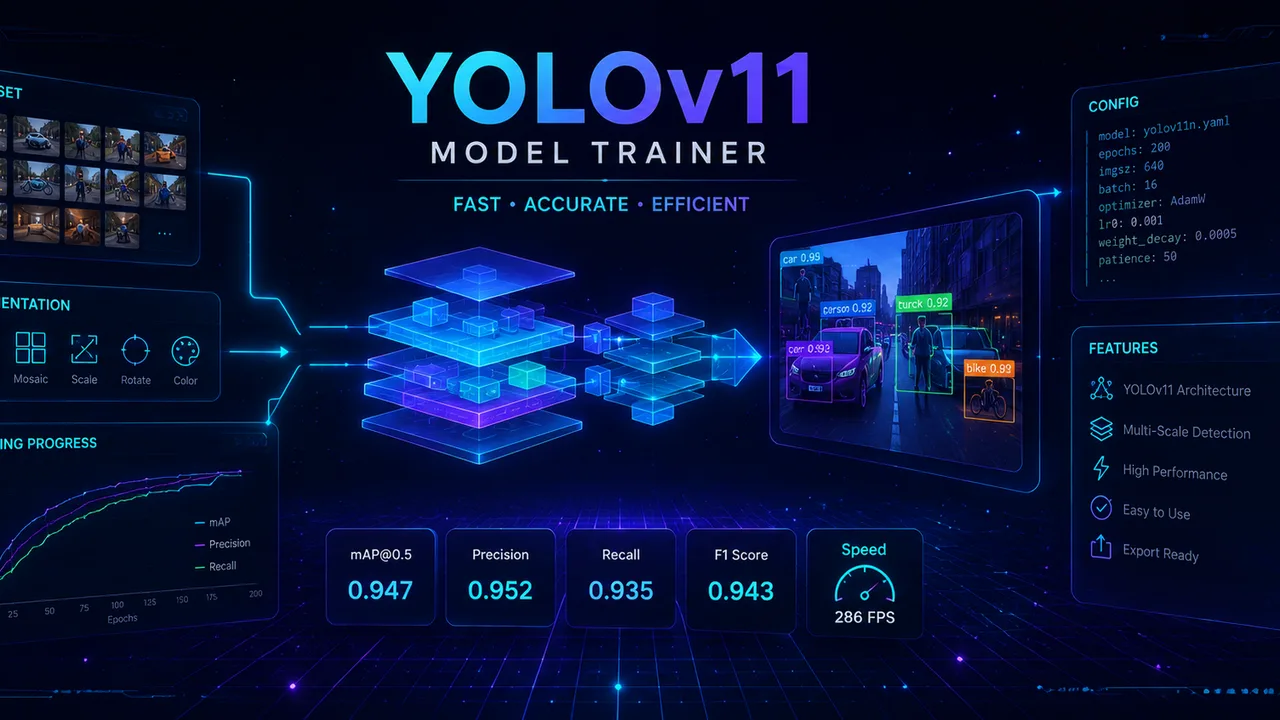
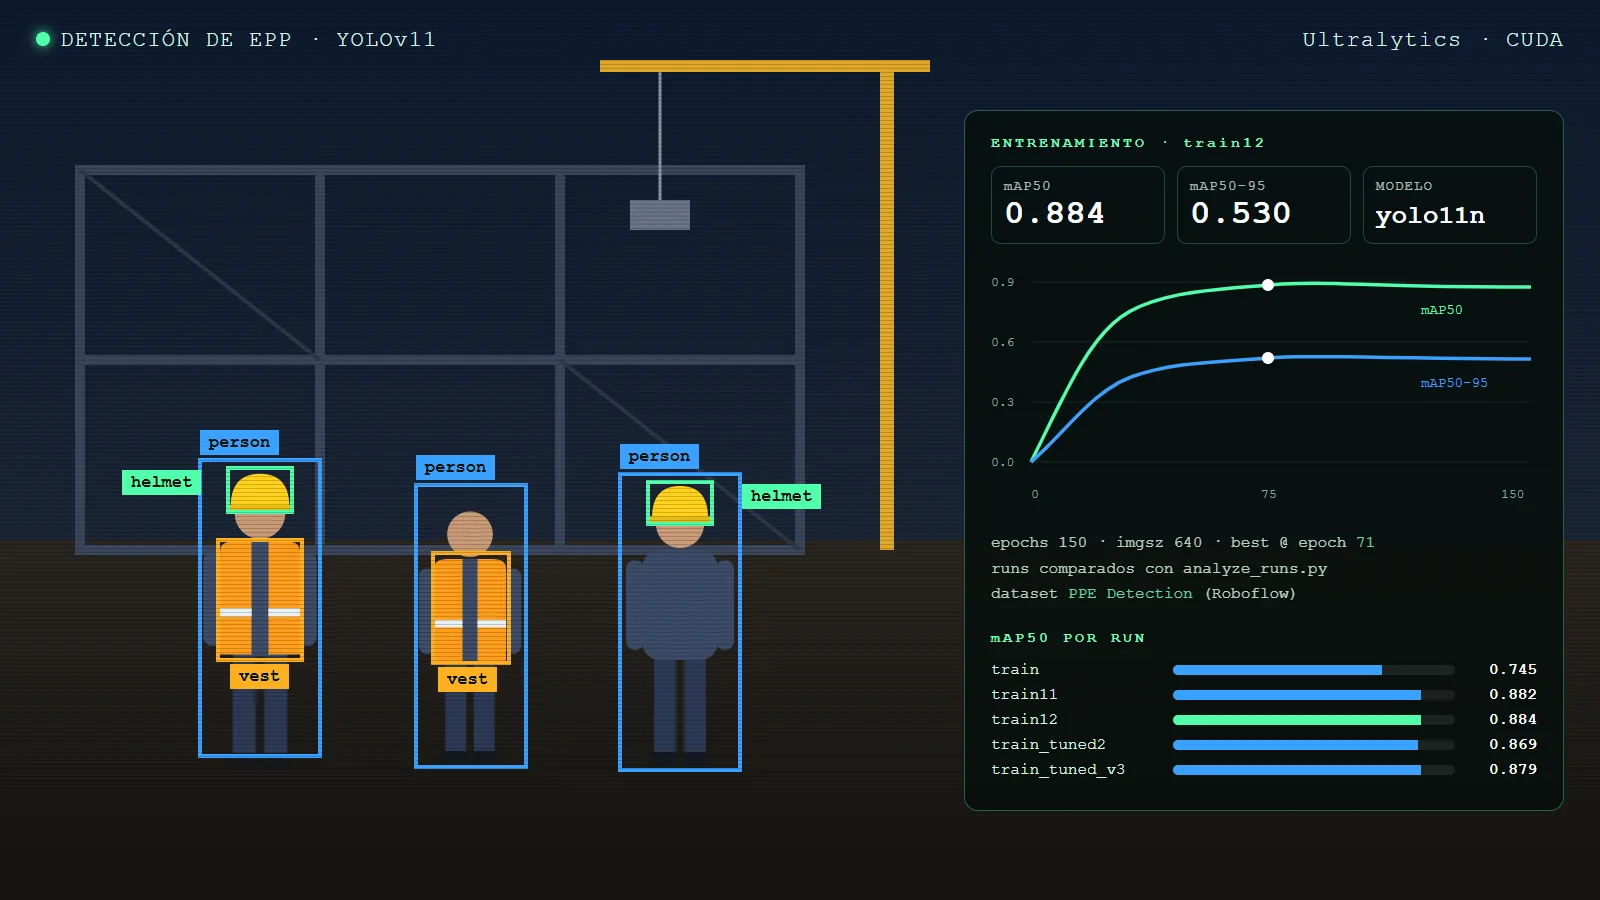
Renueva los proyectos personales
Imágenes propias para ANPR, el entrenador YOLOv11 y ReviewBot con el mismo estilo de vista de cámara; se quita la línea de resultado en los proyectos personales y se corrige la descripción y el stack de ReviewBot (Node.js, Discord.js, MongoDB).

diff --git a/src/content.js b/src/content.js
@@ -134,8 +134,7 @@ export const projects = [
       en: 'License plate recognition for vehicle entry and exit control.',
     },
     stack: ['Python', 'YOLO', 'OpenCV'],
-    result: null, // ej. { es: '92 % de precisión en 1.200 imágenes reales', en: '...' }
-    images: [], // ej. ['/img/proyectos/anpr.webp'] (16:9); con 2+ se muestra como carrusel
+    images: ['/img/proyectos/anpr.webp'],
     repo: 'https://github.com/ViceAguilera/detector-script-tesis',
     demo: null,
   },
@@ -146,7 +145,6 @@ export const projects = [
       en: 'Tool to train object detection models with YOLOv11.',
     },
     stack: ['Python', 'Ultralytics'],
-    result: null,
     images: ['/img/proyectos/yolo-trainer.webp'],
     repo: 'https://github.com/ViceAguilera/Train-YoloV11-Model',
     demo: null,
@@ -154,11 +152,10 @@ export const projects = [
   {
     name: { es: 'ReviewBot', en: 'ReviewBot' },
     summary: {
-      es: 'Bot de Discord que genera reseñas de restaurantes a partir de scraping.',
-      en: 'Discord bot that writes restaurant reviews from scraped data.',
+      es: 'Bot de Discord para registrar y compartir reseñas de restaurantes con comandos slash; busca solo el sitio del local.',
+      en: 'Discord bot to log and share restaurant reviews with slash commands; it finds the venue\'s website on its own.',
     },
-    stack: ['Python', 'Discord API'],
-    result: null,
+    stack: ['Node.js', 'Discord.js', 'MongoDB'],
     images: ['/img/proyectos/reviewbot.webp'],
     repo: 'https://github.com/ViceAguilera/ReviewBot',
     demo: null,

diff --git a/src/App.jsx b/src/App.jsx
@@ -51,9 +51,12 @@ function ProjectCard({ p }) {
         {p.status && <span className={`status status--${p.status}`}>{t(ui.status[p.status])}</span>}
       </h3>
       <p className="desc">{t(p.summary)}</p>
-      <p className={p.result ? 'project__result' : 'project__result pending'}>
-        {p.result ? t(p.result) : t(ui.resultPending)}
-      </p>
+      {/* Sin campo `result` no hay línea; `result: null` la marca como pendiente */}
+      {'result' in p && (
+        <p className={p.result ? 'project__result' : 'project__result pending'}>
+          {p.result ? t(p.result) : t(ui.resultPending)}
+        </p>
+      )}
       <ul className="tags" aria-label={t(ui.technologies)}>
         {p.stack.map((s) => <li key={s}>{s}</li>)}
       </ul>
